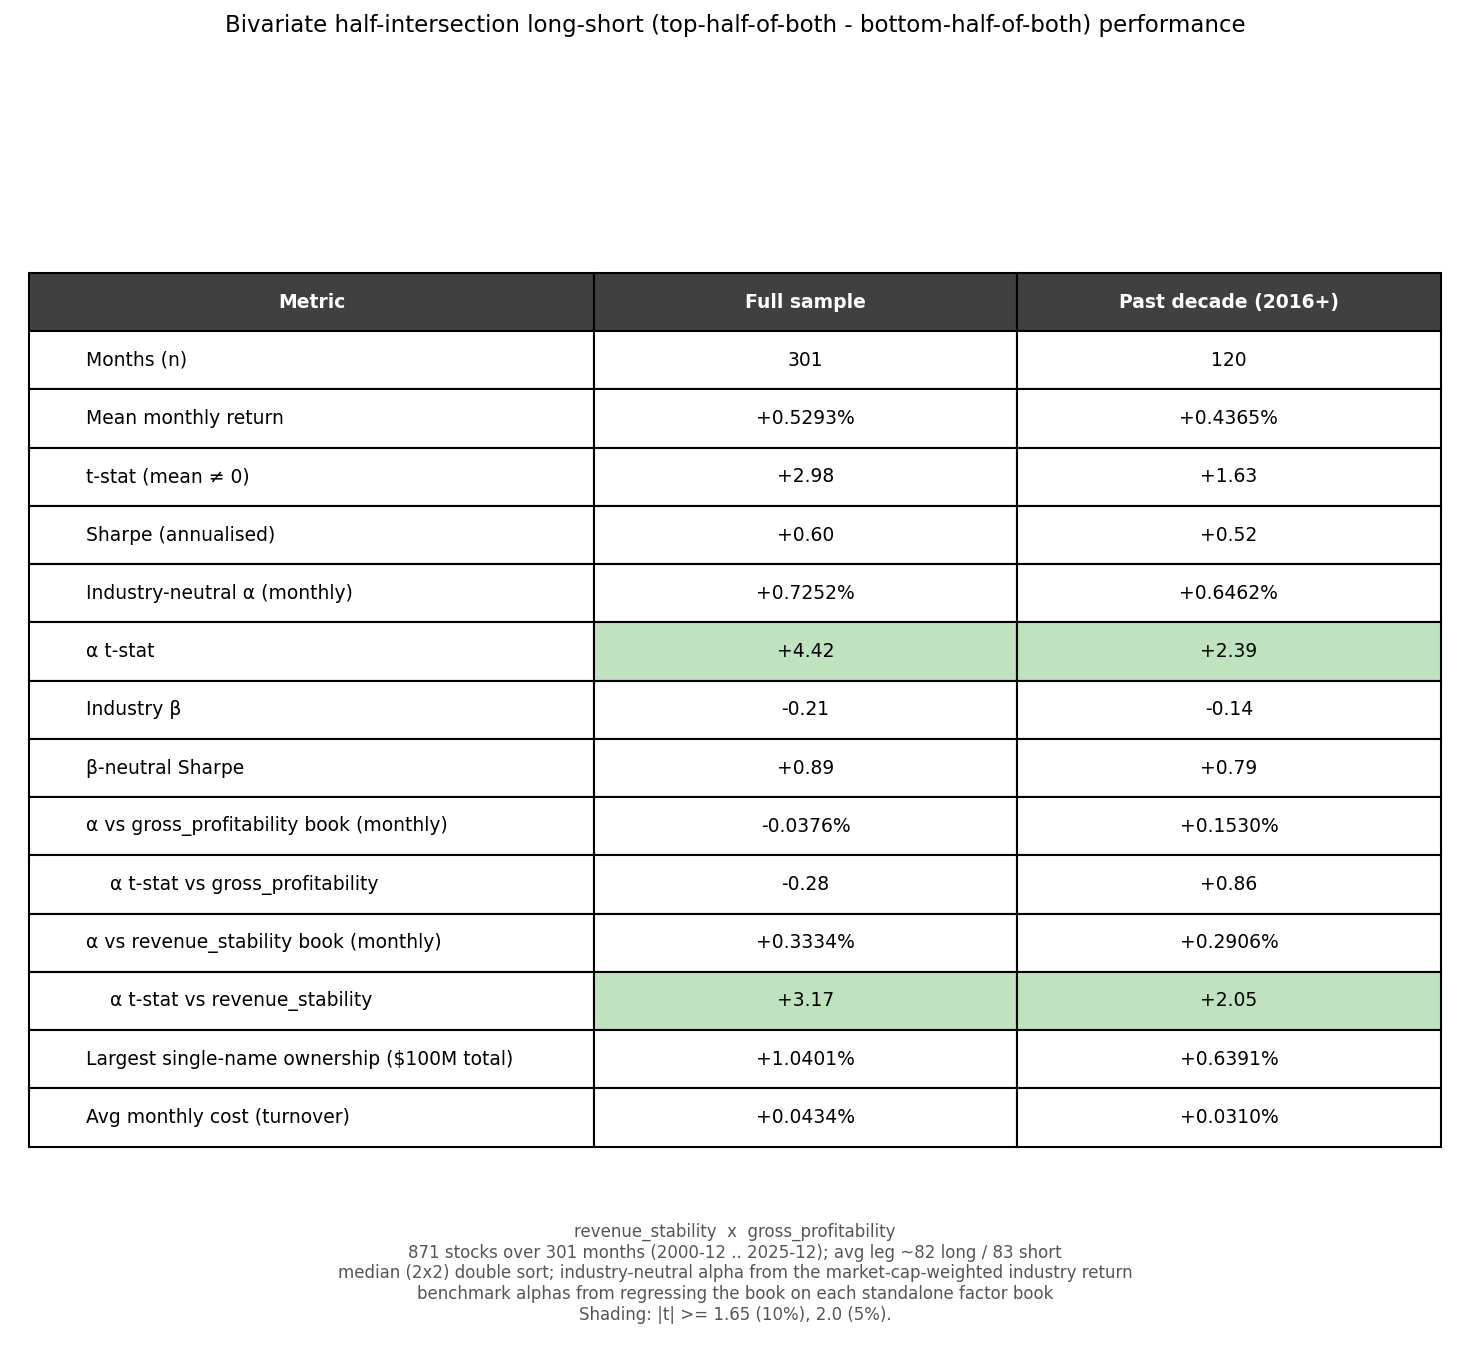
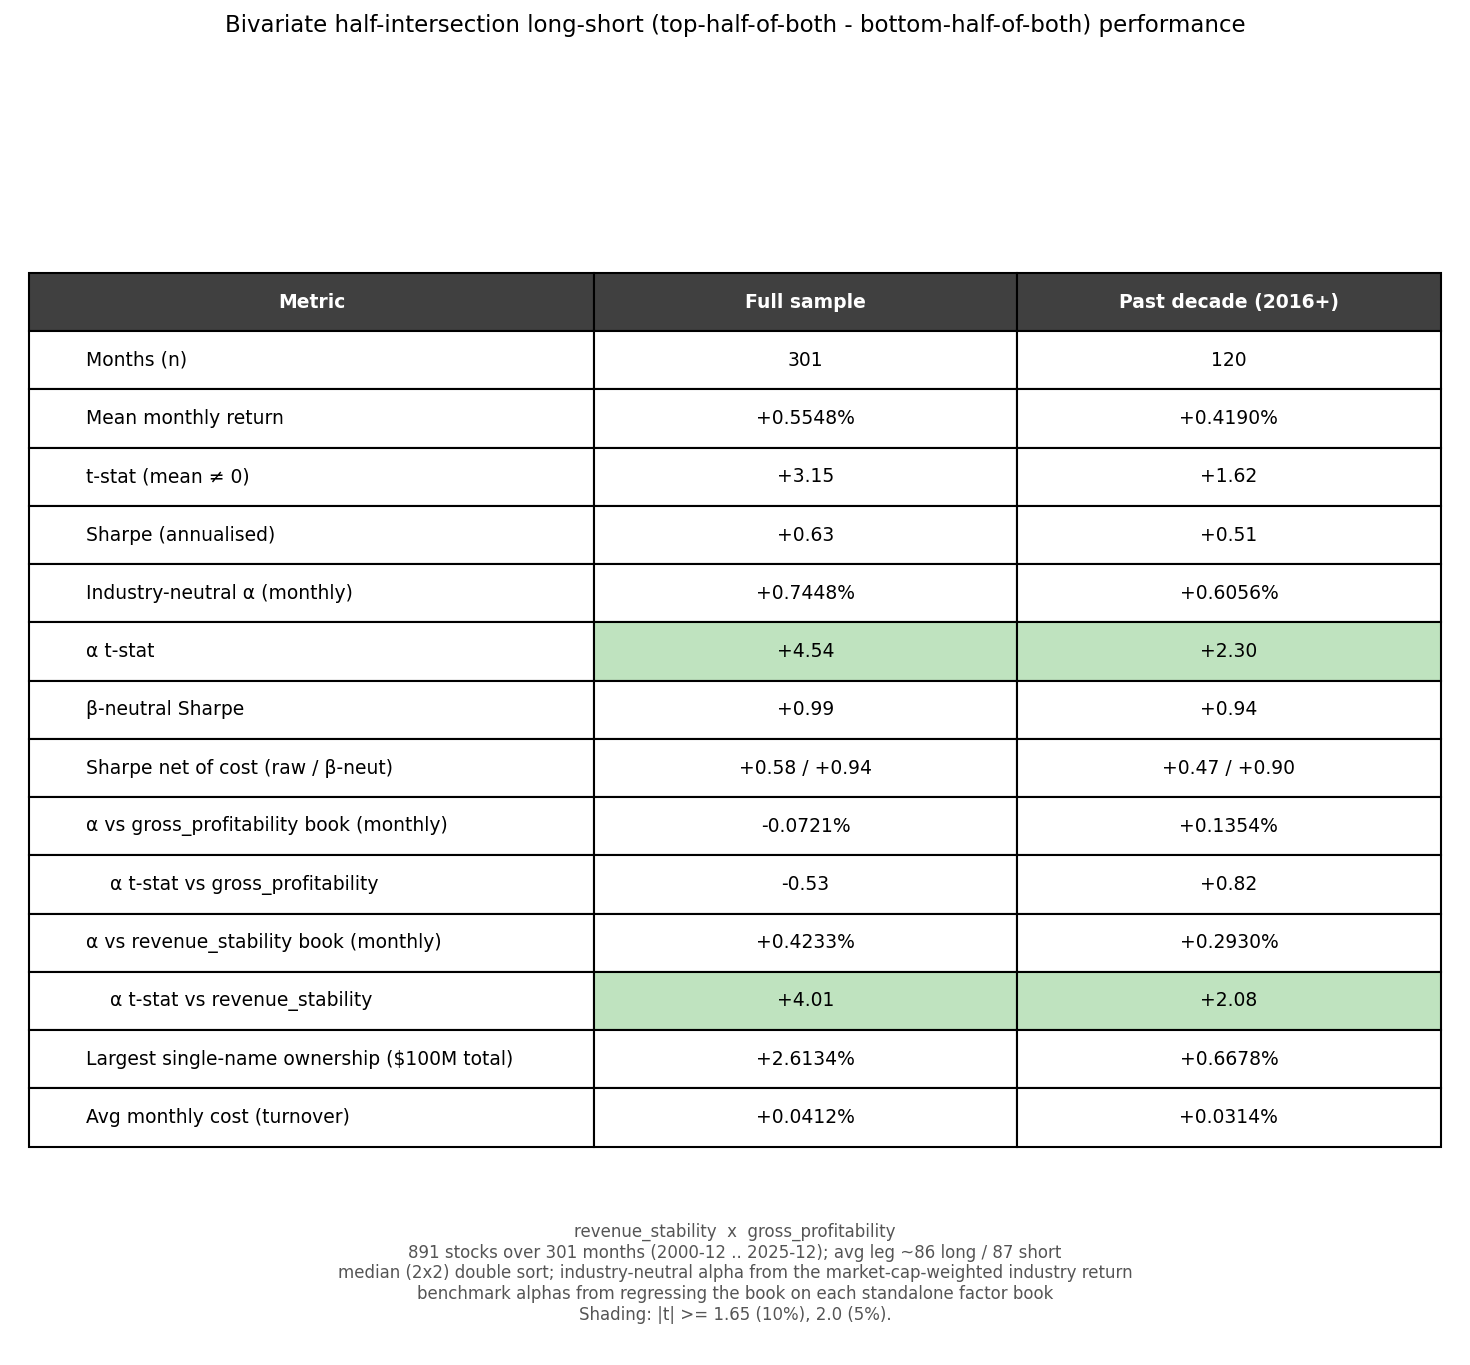
Regenerate stale output across the experiments

diff --git a/experiment3 - multifactor/main.py b/experiment3 - multifactor/main.py
@@ -20,7 +20,9 @@ own module and already runs standalone via ``python <module>.py``:
 standalone pipeline.
 
 Like Experiment 2's ``main.py``, this adds no new analytics -- it just invokes
-each module's own ``main`` with its default factor set.  Each module wires
+each module's own ``main`` with its default factor set (plus a second
+``bivariate_tertile.py`` run for the revenue_stability x gross_profitability
+pair, so that book is refreshed alongside the default one).  Each module wires
 Experiment 1's engine into ``sys.modules`` at import time (via ``composite``),
 so to keep every run pristine and isolated -- and to match the documented
 ``python <module>.py`` standalone path -- each is run in its own subprocess.  A
@@ -48,14 +50,18 @@ import composite as C
 _THIS_DIR = Path(__file__).resolve().parent
 
 # Every runnable pipeline in dependency-agnostic logical order (each is isolated
-# in its own subprocess, so ordering is for readability, not correctness).
+# in its own subprocess, so ordering is for readability, not correctness).  Each
+# entry is the full argv after the interpreter: module path plus any CLI args.
+# ``bivariate_tertile.py`` runs twice -- its default pair, then the
+# revenue_stability pair -- so both books stay current with pipeline changes.
 # ``factor_correlation.py`` has no ``main`` and is excluded by design.
 _PIPELINES = [
-    _THIS_DIR / "composite.py",
-    _THIS_DIR / "weighted_composite.py",
-    _THIS_DIR / "bivariate_tertile.py",
-    _THIS_DIR / "factor_momentum.py",
-    _THIS_DIR / "portfolio_overlay.py",
+    [_THIS_DIR / "composite.py"],
+    [_THIS_DIR / "weighted_composite.py"],
+    [_THIS_DIR / "bivariate_tertile.py"],
+    [_THIS_DIR / "bivariate_tertile.py", "revenue_stability", "gross_profitability"],
+    [_THIS_DIR / "factor_momentum.py"],
+    [_THIS_DIR / "portfolio_overlay.py"],
 ]
 
 
@@ -87,12 +93,13 @@ def main() -> None:
     render_top5_table()
 
     failed: list[str] = []
-    for path in _PIPELINES:
-        print(f"\n{'#' * 72}\n# Experiment 3 pipeline: {path.name}\n{'#' * 72}")
-        result = subprocess.run([sys.executable, path.name], cwd=path.parent)
+    for path, *args in _PIPELINES:
+        label = " ".join([path.name, *args])
+        print(f"\n{'#' * 72}\n# Experiment 3 pipeline: {label}\n{'#' * 72}")
+        result = subprocess.run([sys.executable, path.name, *args], cwd=path.parent)
         if result.returncode != 0:
-            failed.append(path.name)
-            print(f"!! {path.name} exited with code {result.returncode}")
+            failed.append(label)
+            print(f"!! {label} exited with code {result.returncode}")
 
     if failed:
         print(f"\n{len(failed)} pipeline(s) FAILED: {', '.join(failed)}")

diff --git a/experiment5 - scaling/capacity_scaling.py b/experiment5 - scaling/capacity_scaling.py
@@ -407,7 +407,7 @@ def corner_ownership(legs: pd.DataFrame, leg_capital: float | None = None) -> pd
     cap (``mcap``).  Returns the per-month max across both corners -- the most
     concentrated single position held -- the sqrt-cap analog of
     ``bivariate_tertile._intersection_ownership``'s equal-weighted share."""
-    leg_capital = _bivariate.LEG_CAPITAL if leg_capital is None else leg_capital
+    leg_capital = _C.LEG_CAPITAL if leg_capital is None else leg_capital
     share = (leg_capital * legs["w"]) / legs["mcap"]
     return share.groupby(legs["date"]).max().sort_index()
 
@@ -470,7 +470,7 @@ def run_bivariate(factor_names: list[str] | None = None,
         benchmark_metrics.append((f"α vs {f} book (monthly)", f"alpha_vs_{f}", "pct", False))
         benchmark_metrics.append((f"    α t-stat vs {f}", f"alpha_tstat_vs_{f}", "num", True))
     extra_metrics = benchmark_metrics + [
-        (f"Largest single-name ownership (${_bivariate.PORTFOLIO_CAPITAL / 1e6:.0f}M total)",
+        (f"Largest single-name ownership (${_C.PORTFOLIO_CAPITAL / 1e6:.0f}M total)",
          "max_ownership", "pct", False)]
 
     n_stocks = frame["stock_id"].nunique()

diff --git a/experiment3 - multifactor/README.md b/experiment3 - multifactor/README.md
@@ -32,8 +32,10 @@ Five ways to combine the factors, sharing one spine (plus the redundancy tool):
 [`main.py`](main.py) orchestrates all five pipelines, each in its own
 subprocess (they share the dependency-injected Experiment 1 engine, so they must
 not share an interpreter), in dependency order: `composite` →
-`weighted_composite` → `bivariate_tertile` → `factor_momentum` →
-`portfolio_overlay`.
+`weighted_composite` → `bivariate_tertile` (twice: the default
+`return_stability × gross_profitability` pair, then
+`revenue_stability × gross_profitability`, so both books stay current) →
+`factor_momentum` → `portfolio_overlay`.
 
 The weighted variant is described under
 [Coefficient-weighted variant](#coefficient-weighted-variant-expanding-window-walk-forward--weighted_compositepy);
@@ -98,7 +100,7 @@ expanding-window walk-forward.
 ## Run
 
 ```bash
-python main.py                                               # all five pipelines, in order
+python main.py                                               # all five pipelines, in order (bivariate runs both pairs)
 
 python composite.py                                          # equal-weighted, default set (below)
 python composite.py buyback_quality gross_profitability rd_stability

diff --git a/experiment1 - general factors/README.md b/experiment1 - general factors/README.md
@@ -104,7 +104,11 @@ Experiments 2 and 3. The book also gets a **β-neutral Sharpe**: it is hedged wi
 a `−β·industry` overlay, but `β` is re-estimated **every month on an expanding
 window of only the data available up to that month** (a walk-forward hedge, free
 of look-ahead) rather than one full-sample slope — so the Sharpe reflects a hedge
-an investor could actually have put on. The industry `β` itself is no longer
+an investor could actually have put on. Because a stable monthly β needs a few
+years of history, the hedge has a **36-month warm-up** (`HEDGE_MIN_MONTHS`): the
+first 3 years — too little prior data for a reliable slope — carry no β and are
+dropped from the β-neutral series, which therefore starts one estimation window in
+from sample start. The industry `β` itself is no longer
 reported as a column. All of these are estimated over the full sample and,
 separately, the **past decade (2016+)** — where the 2016+ β-neutral Sharpe simply
 windows the same walk-forward hedged series, so its monthly betas still use all
